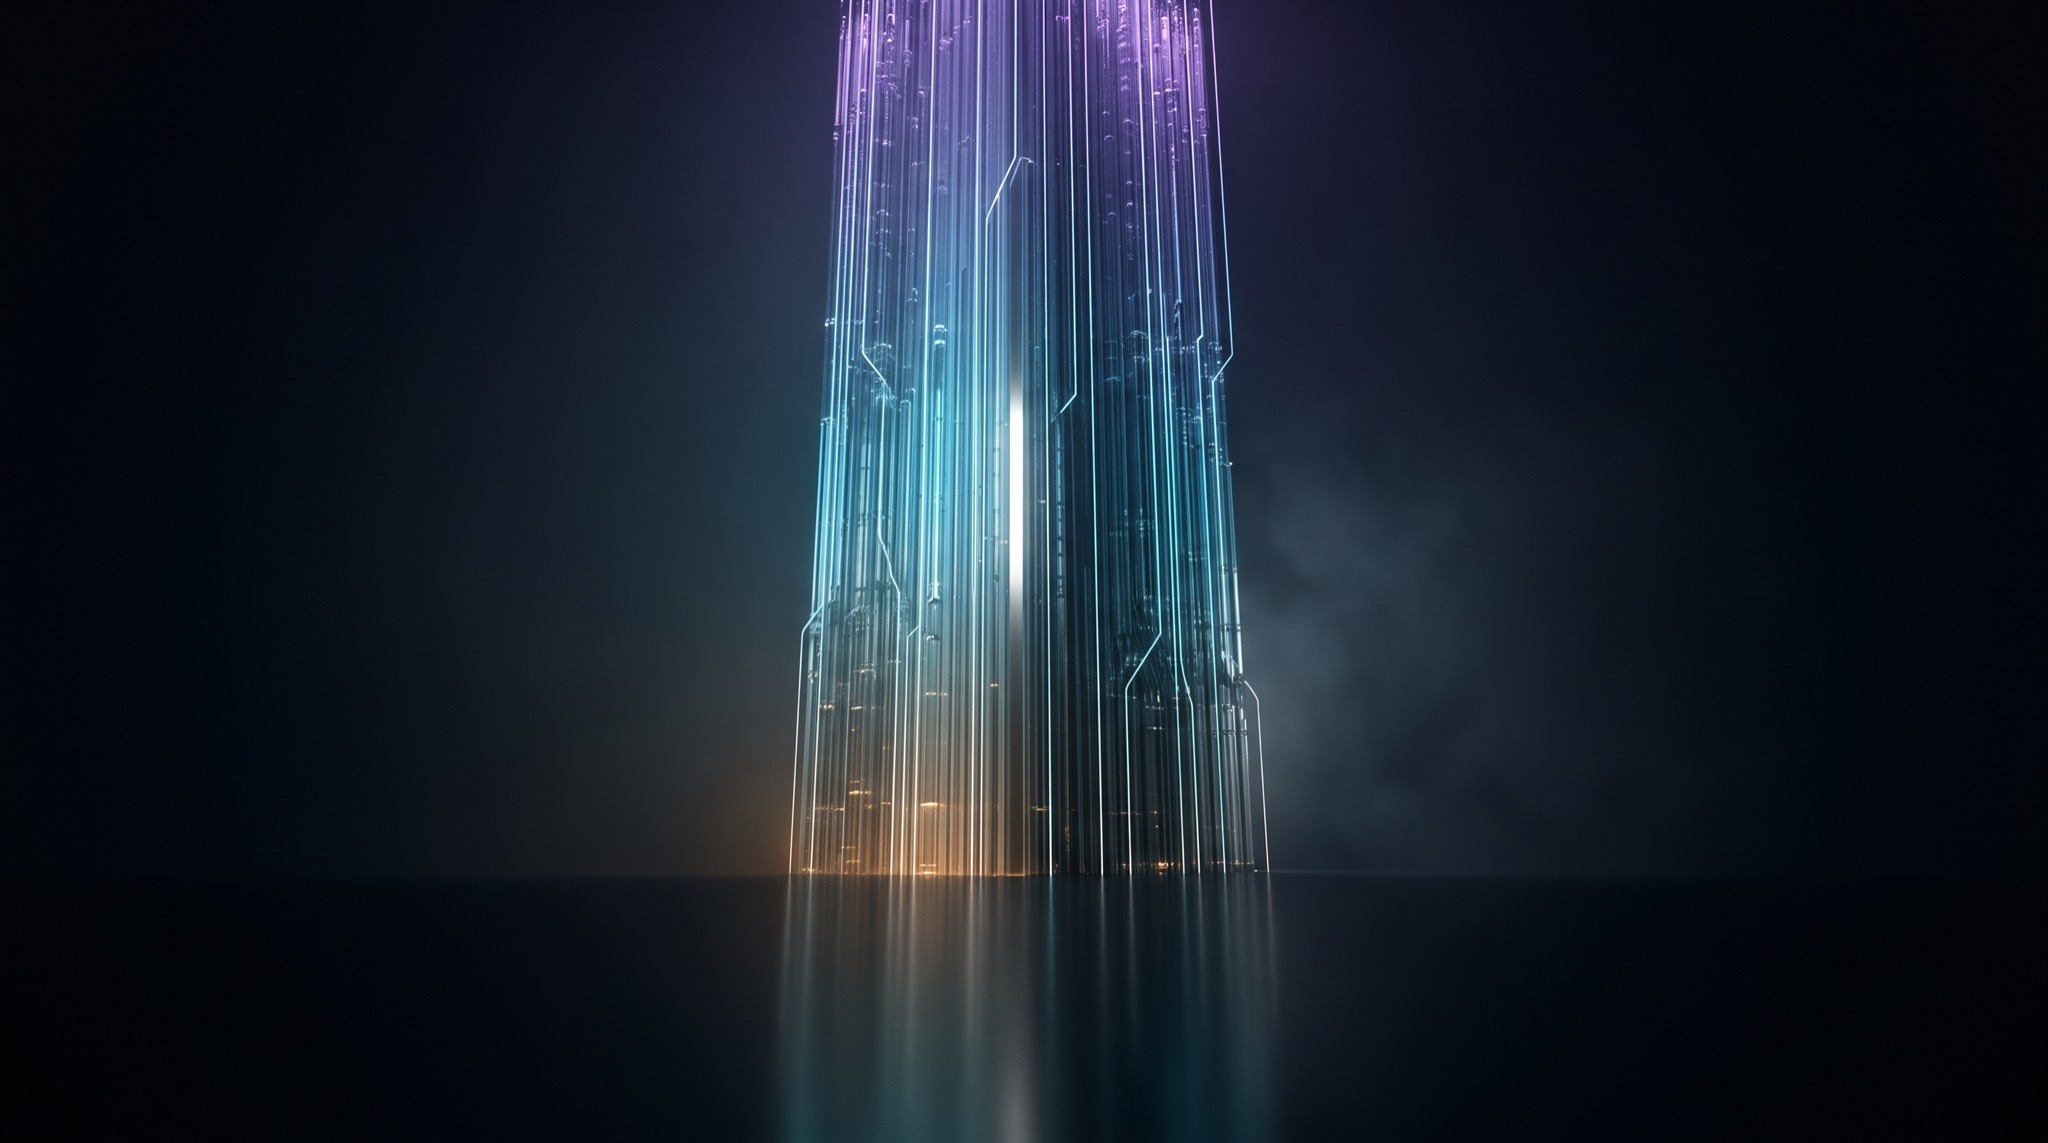
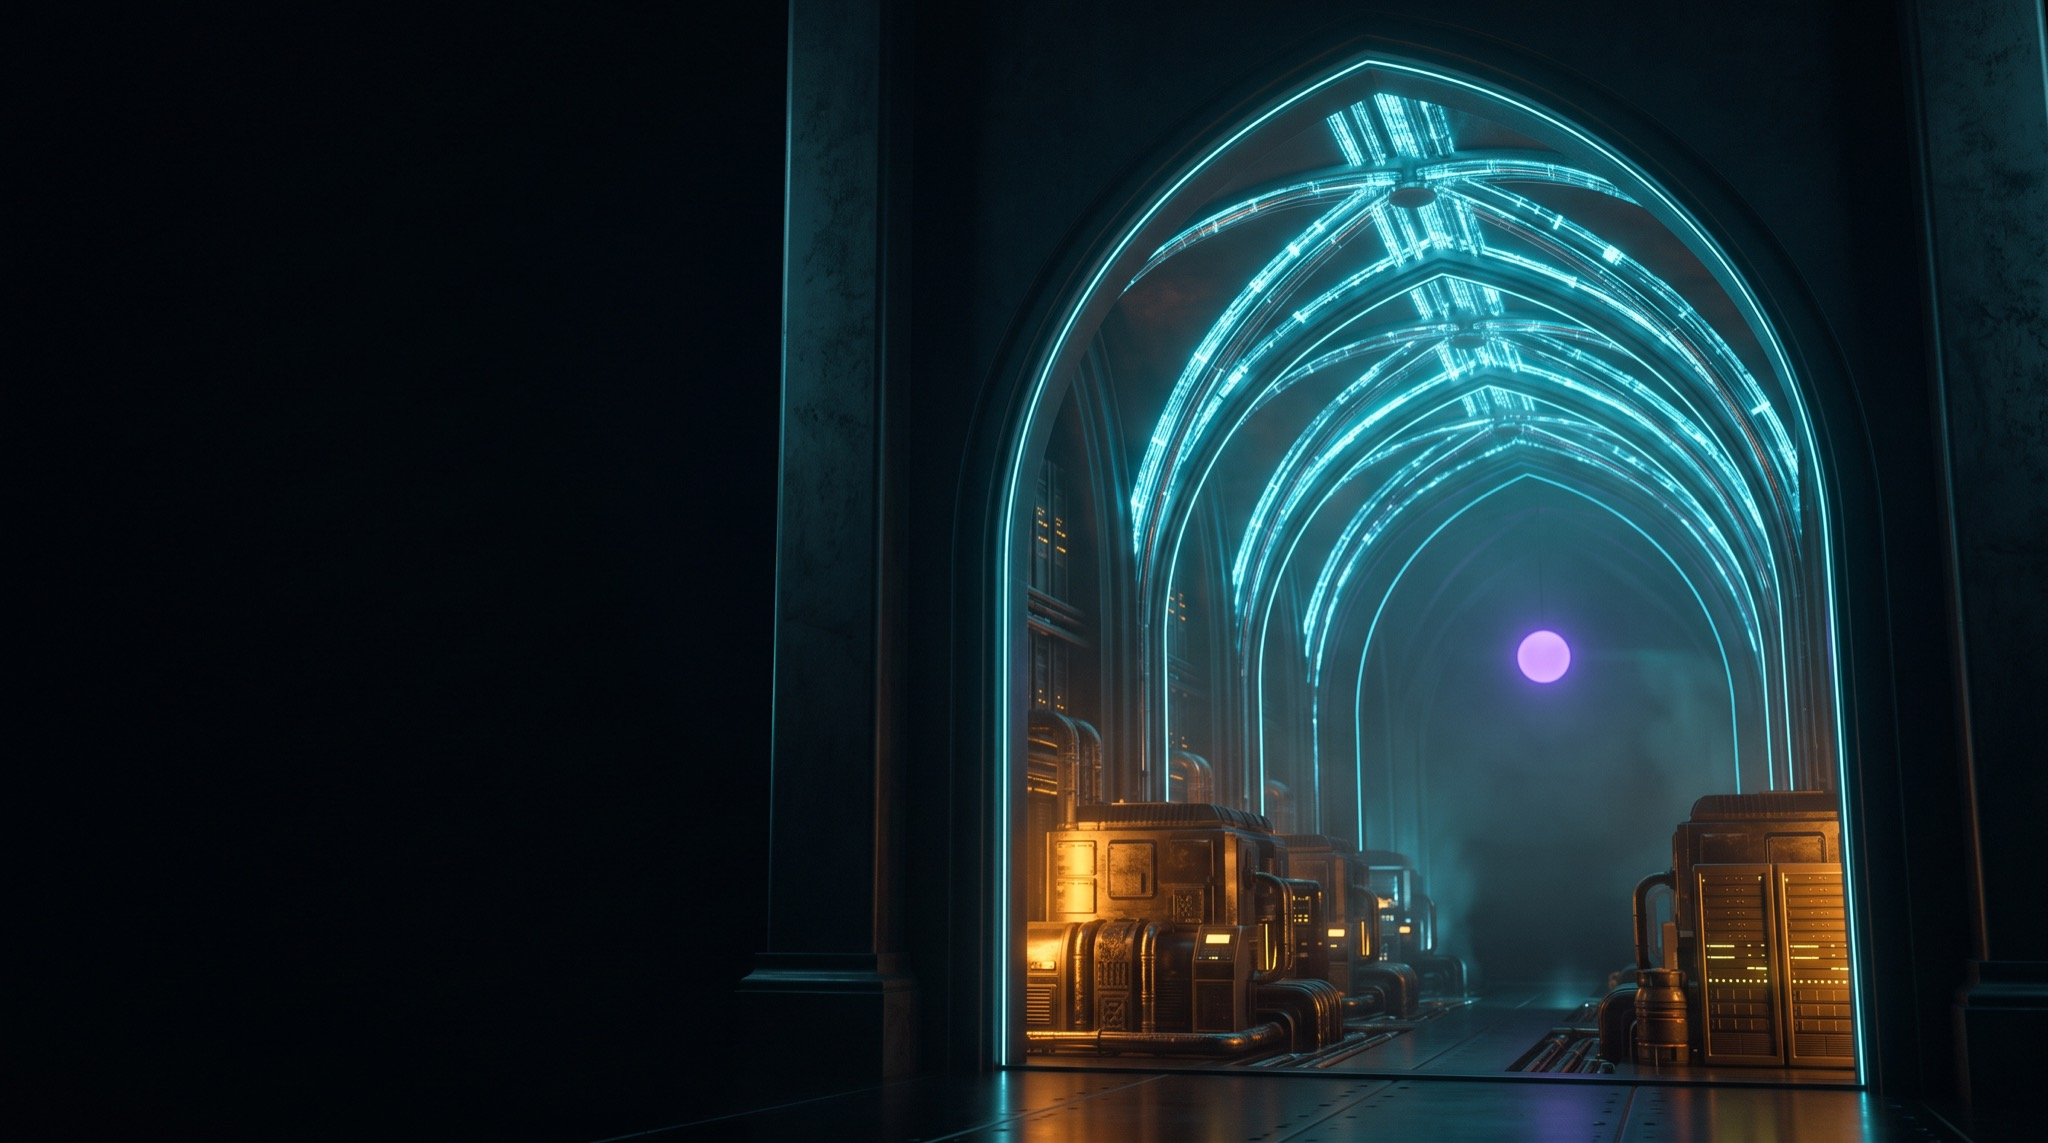
feat: replace the Ingress still with the cathedral threshold (#99)
* feat: lead with the role, add an arrival CTA, gate deploys on real checks

Positioning. The first viewport's largest text was a narrative line while the
facts that identify Jagadeesh — name, role — were the smallest, dimmest thing
on screen. A recruiter gives a portfolio seconds and is matching a job title,
so the opening station now leads with "Data & AI Architect" as the h1 (better
semantically too) and keeps "Eleven years, one continuous system." as the
subhead directly beneath. Same words, inverted emphasis.

Arrival CTA. The only action in the first screen was a small Resume link in the
nav; the real CTA lived seven stations down. The opening station now carries
"Get in touch" plus "See the work", outlined rather than filled so the closing
station stays the finale.

Nav legibility. The command bar was `bg-transparent` until scrolled, putting
the nav directly on the scroll-world scene — at wide viewports the monolith's
bright core sits behind the first three items and washed them out against
light text. It now carries a top-down scrim dense at the bar's vertical centre,
where the labels actually are, without reading as a solid header.

Ultrawide composition. The copy column was centred in max-w-6xl, so past
~1800px it drifted right into the bright middle of the frame and its line-ends
washed out. It is left-anchored beyond that width, which puts the text in the
dark third and lets the subject stand free.
[…]

diff --git a/ASSET_MANIFEST.md b/ASSET_MANIFEST.md
@@ -16,7 +16,7 @@ mounted, so a visitor only ever downloads the stations they actually fly through
 
 | # | Station | Era | Desktop (2048w) | Mobile (1280w) | Higgsfield job |
 |---|---|---|---|---|---|
-| 1 | Ingress | cloud | `public/scenes/01-ingress.jpg` (214K) | `01-ingress@sm.jpg` (83K) | `bf49a782-13fb-46ee-8a3c-52e67bb5dba6` |
+| 1 | Ingress | cloud | `public/scenes/01-ingress.jpg` (346K) | `01-ingress@sm.jpg` (133K) | `28780c67-6144-4473-9408-256b074ff4c1` (replaced) |
 | 2 | Legacy Substrate | legacy | `public/scenes/02-legacy-substrate.jpg` (355K) | `02-legacy-substrate@sm.jpg` (136K) | `761973bb-8bd9-41f1-bf77-283c77c2c258` (re-roll) |
 | 3 | The Great Migration | cloud | `public/scenes/03-great-migration.jpg` (468K) | `03-great-migration@sm.jpg` (193K) | `eca17fb6-73d3-4827-a1c3-a10e4da9f4a0` |
 | 4 | Governed Realtime | cloud | `public/scenes/04-governed-realtime.jpg` (346K) | `04-governed-realtime@sm.jpg` (154K) | `4ecc815c-32f3-4401-8197-cb2ba4be5488` |
@@ -43,8 +43,33 @@ corrected prompts:
 | 5 Translation Engine | Brassy gold steampunk turbine — saturated toy render, broke the near-black/thin-neon contract | Forced dark matte and gunmetal surfaces, colour from emitted light only, excluded brass/gold/copper/bronze |
 | 7 The Whole System | Rendered a small isolated prop (read as a water tower), not a colossal structure | Specified an extreme wide aerial of a kilometres-tall megastructure filling frame height, excluded "small object"/"floating prop" |
 
-Re-rolls cost 6 credits. **Total spend: 20 credits** (10 generations × 2) of the 50
-available.
+Re-rolls cost 6 credits.
+
+### Station 1 replaced
+
+The original Ingress still (`bf49a782-13fb-46ee-8a3c-52e67bb5dba6`) was a bundle of
+fibre-optic conduits. It passed the style check but was the weakest of the seven on
+substance: it read as generic stock tech, it did not carry the era arc the copy claims,
+and its subject sat dead-centre, which is what forced the copy column off to one side.
+
+Three replacement concepts were generated and reviewed:
+
+| Candidate | Concept | Verdict |
+|---|---|---|
+| A `5b63c05f…` | Core sample — three strata in one column | Rejected: reads as a lab specimen in a beaker, small-object scale |
+| **B `28780c67…`** | **Cathedral threshold — amber machinery underfoot, cyan vaults overhead, violet orb at the vanishing point** | **Shipped** |
+| C `fbd30902…` | Tower cutaway — floors of racks → lattice → orb | Runner-up: clearest three-layer read, but sits on a visible plinth so it looks like an architect's model |
+
+B was chosen because it is the only one that behaves like an *establishing shot*: it has
+depth that invites entry, which is what an ingress station is for, and it encodes all
+three eras in one piece of readable architecture. A and C are objects you look at; B is a
+place you are about to fly into. Its prompt also reserves the **left** third for copy,
+matching the left-anchored text column.
+
+All three masters are archived in the session scratchpad (`scene-masters/`) so C can be
+swapped in without regenerating.
+
+**Total spend: 26 credits** (13 generations × 2) of the 50 available.
 
 ## Provenance
 
